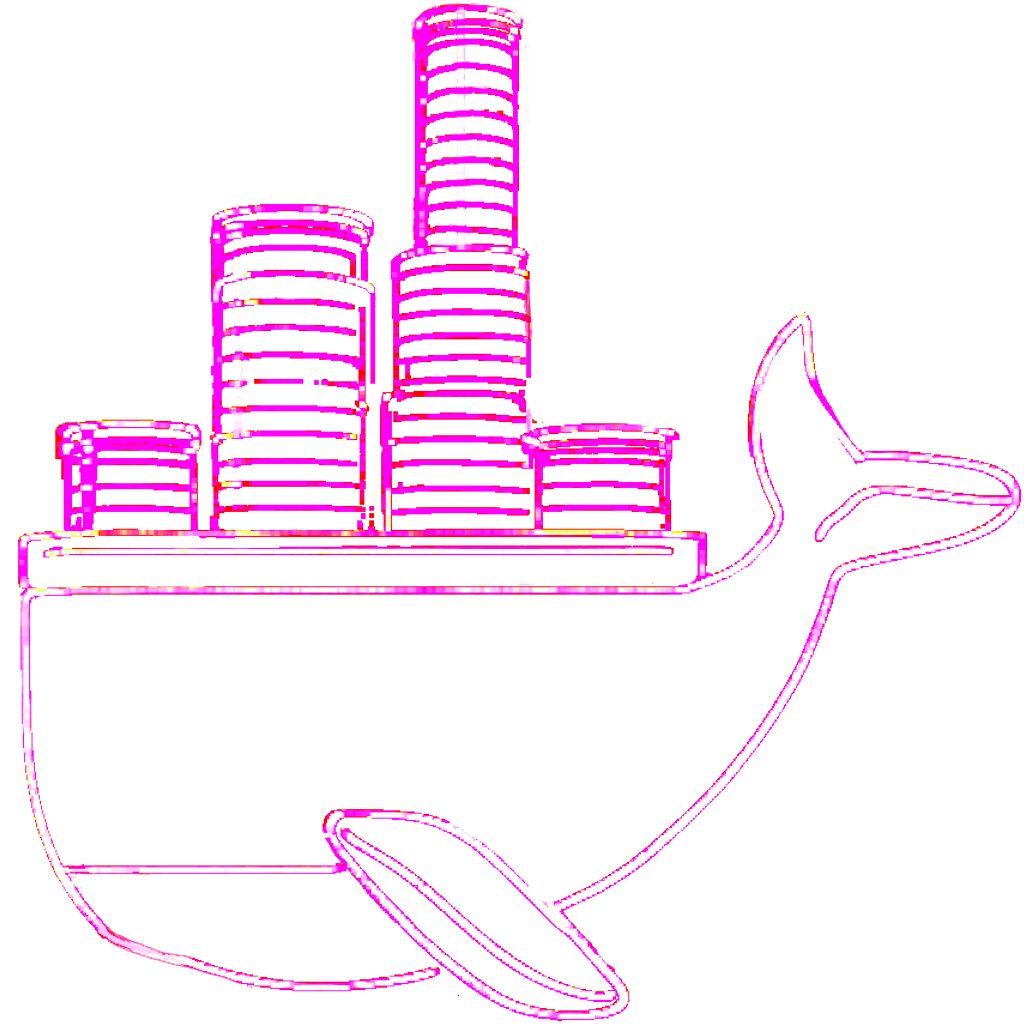
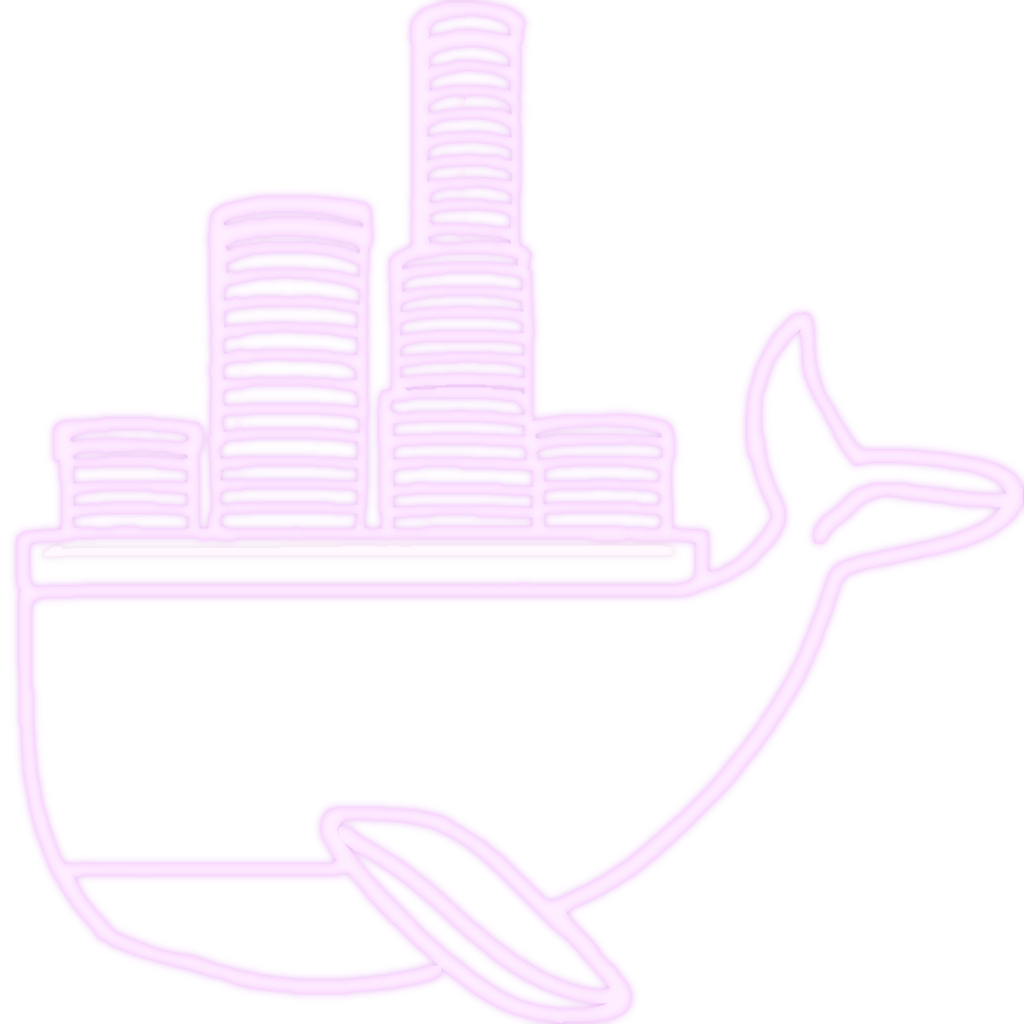
update to service artwork

Changed region(s): [[0.0, 0.0, 1.0, 1.0], [0.6875, 0.75, 0.7188, 0.7812], [0.6562, 0.7812, 0.6875, 0.8125]]

diff --git a/apps/website/src/routes/serviceChapters.ts b/apps/website/src/routes/serviceChapters.ts
@@ -12,7 +12,7 @@ export const servicesChapters: {
 		chapterNumber: 1,
 		inView: false,
 		title: 'AI-Powered Design',
-		image: '/artwork/design_2.png',
+		image: '/artwork/design_4.png',
 		id: 'design',
 		body: `By optimizing workflows and harnessing AI-driven tools, we create stunning websites in a fraction of the time.`,
 	},
@@ -27,7 +27,7 @@ export const servicesChapters: {
 	{
 		chapterNumber: 3,
 		inView: false,
-		image: '/artwork/server_4.png',
+		image: '/artwork/server_5.png',
 		title: 'Modern Hosting',
 		id: 'host',
 		body: `Our sleek web hosting process effortlessly manages all technical aspects, enabling you to prioritize your core business.`,
